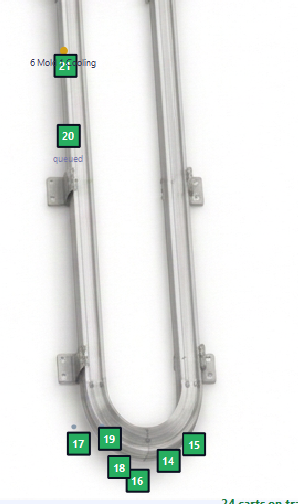
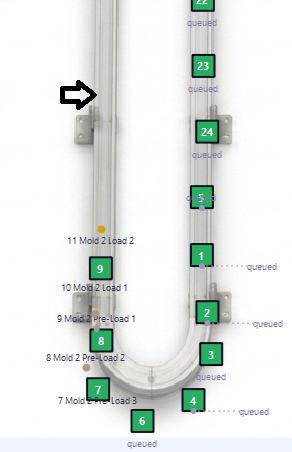
Fix real-vs-pixel-fraction mismatch at mold-spur U-turns (v27.3.9)
Fixing the waypoint-ordering bug wasn't the whole story: the U-turn is only
~8% of the real path length (from track_geometry's segment lengths) but
measured ~19-21% of the traced PIXEL arc-length -- the photographed curve's
visual footprint is much bigger than its real-distance share. A plain 1:1
real-fraction -> pixel-fraction mapping therefore placed anything past the
curve (e.g. a mold's Load 2 station) too far along/low, and made cart travel
through the bend look uneven -- reported as "the Mold 2 Load 2 label should
be higher" (with a drawn arrow marking the expected spot) and "Mold 1 side
does a weird route around the bottom bend".

Fixed with REAL_TO_PIXEL_BREAKPOINTS: a piecewise-linear remap anchored at
the real leg/curve transition points, applied in point_at() before the
arc-length lookup. Verified the flagged station moved ~44px in the arrow's
direction, and a full even-step walk around both spurs shows no clustering
-- now correctly denser through the legs and sparser through the turn,
matching that the real cart doesn't slow down for the bend.

diff --git a/tests/test_track_photo.py b/tests/test_track_photo.py
@@ -1,10 +1,12 @@
 """PhotoTrackModel — pixel-space calibration for the real track photo, and the
 TrackCanvas photo/schematic fallback selection."""
 from __future__ import annotations
+import math
 import pytest
 
 from mm_monitor.track_photo import (
     PhotoTrackModel, PATH_WAYPOINTS_PX, PHOTO_SIZE, build_photo_track_model,
+    REAL_TO_PIXEL_BREAKPOINTS, _remap_fraction, _cumulative_lengths,
 )
 
 
@@ -62,3 +64,93 @@ def test_build_photo_track_model_uses_real_path_lengths():
     p_start = model.point_at(6, 0.0)
     p_mid = model.point_at(6, 5.0)
     assert p_start != p_mid, "positions should differ across a 10m+ path"
+
+
+# ── mold-spur curve fraction correction (real_frac != pixel_frac near the U-turn) ──
+#
+# The pixel-traced U-turn on paths 2/4 occupies a much bigger SHARE of pixel
+# arc-length (~19-21%) than the same turn occupies of the path's real length
+# (~8%, from track_geometry's own segment lengths) — a straight real-fraction
+# to pixel-fraction mapping therefore placed anything past the turn (a mold's
+# Load 2 station, or a cart mid-transit) too far along/low, and made the ride
+# through the curve look uneven. REAL_TO_PIXEL_BREAKPOINTS + _remap_fraction
+# fix this; these tests guard against it regressing silently.
+
+def test_remap_fraction_matches_known_anchors_exactly():
+    bp = [(0.0, 0.0), (0.5, 0.3), (1.0, 1.0)]
+    assert _remap_fraction(0.0, bp) == 0.0
+    assert _remap_fraction(0.5, bp) == pytest.approx(0.3)
+    assert _remap_fraction(1.0, bp) == 1.0
+
+
+def test_remap_fraction_interpolates_linearly_between_anchors():
+    bp = [(0.0, 0.0), (0.5, 0.3), (1.0, 1.0)]
+    # halfway between the 0.5->0.3 and 1.0->1.0 anchors
+    assert _remap_fraction(0.75, bp) == pytest.approx(0.65)
+
+
+def test_remap_fraction_clamps_outside_anchor_range():
+    bp = [(0.2, 0.1), (0.8, 0.9)]
+    assert _remap_fraction(0.0, bp) == pytest.approx(0.1)
+    assert _remap_fraction(1.0, bp) == pytest.approx(0.9)
+
+
+def test_paths_2_and_4_have_breakpoint_corrections():
+    assert 2 in REAL_TO_PIXEL_BREAKPOINTS
+    assert 4 in REAL_TO_PIXEL_BREAKPOINTS
+
+
+def test_paths_without_breakpoints_use_direct_fraction():
+    # Path 6 (Process) has no correction entry -> point_at should fall back to
+    # the plain real_frac == pixel_frac behavior (no remap applied).
+    assert REAL_TO_PIXEL_BREAKPOINTS.get(6) is None
+
+
+def test_station_past_the_curve_renders_higher_than_uncorrected_mapping():
+    """Regression guard for the exact bug reported: Mold 2's Load 2 station
+    (path 4 @ 3.405m, real fraction ~71%, past the U-turn) must render further
+    up the return leg (smaller pixel y) than a naive direct real-fraction ->
+    pixel-fraction mapping would have placed it."""
+    model = PhotoTrackModel(real_lengths={4: 4.7854})
+    corrected = model.point_at(4, 3.405)
+
+    pts = PATH_WAYPOINTS_PX[4]
+    s = _cumulative_lengths(pts)
+    frac = 3.405 / 4.7854
+    target = frac * s[-1]
+    lo, hi = 0, len(s) - 1
+    while lo < hi - 1:
+        mid = (lo + hi) // 2
+        if s[mid] <= target:
+            lo = mid
+        else:
+            hi = mid
+    seg = s[hi] - s[lo]
+    t = 0.0 if seg <= 0 else (target - s[lo]) / seg
+    a, b = pts[lo], pts[hi]
+    uncorrected = (a[0] + (b[0] - a[0]) * t, a[1] + (b[1] - a[1]) * t)
+
+    assert corrected[1] < uncorrected[1] - 20, (
+        "corrected position should be meaningfully higher (smaller y) than "
+        "the naive direct-fraction mapping")
+
+
+def test_curve_region_markers_stay_evenly_spaced_no_clustering():
+    """Walking a simulated cart around a full mold-spur path in even real-meter
+    steps must never produce two consecutive samples landing on nearly the
+    same pixel point (the original clustering-at-the-bend bug) or jumping
+    backward in arc-length order."""
+    model = build_photo_track_model()
+    from mm_monitor.track_geometry import build_track
+    real_len = build_track().paths[2].length
+
+    step = 0.1
+    prev = None
+    n = int(real_len / step)
+    for i in range(n + 1):
+        pt = model.point_at(2, i * step)
+        assert pt is not None
+        if prev is not None:
+            dist = math.hypot(pt[0] - prev[0], pt[1] - prev[1])
+            assert dist > 0.5, f"step {i}: consecutive samples nearly identical (clustering)"
+        prev = pt

diff --git a/mm_monitor/track_photo.py b/mm_monitor/track_photo.py
@@ -122,6 +122,46 @@ def _cumulative_lengths(pts: list[tuple[float, float]]) -> list[float]:
     return s
 
 
+# Mold spurs (paths 2 & 4): the real path is leg → U-turn → leg, and the
+# U-turn is a genuinely SHORT slice of the real length (the two 90° curves
+# that make up the 180° turn are only ~8% of the path — see
+# track_geometry.build_track()'s segment lengths). But the PHOTOGRAPHED curve's
+# pixel-arc-length share is much larger (measured ~19-21%), because the real
+# curve is a tight radius while the physical rail's visible turn spans a much
+# wider arc in the photo. Mapping "real fraction" straight onto "pixel
+# fraction" 1:1 therefore put anything past the turn (e.g. a mold's Load 2
+# station, or a cart mid-transit) noticeably further along the pixel path than
+# it should be — reported as "the label should be higher up" and "carts take
+# a weird route around the bend".
+#
+# Fix: a piecewise-linear correction, anchored at the two leg/curve transition
+# points on both sides — (real_fraction, pixel_fraction) pairs measured directly
+# from these paths' own waypoint lists and track_geometry's real segment
+# lengths. Between anchors, a real fraction is linearly remapped to the pixel
+# fraction it should ACTUALLY correspond to, before the normal arc-length
+# lookup runs. Paths without an entry here (1, 3, 5, 6) use real_frac ==
+# pixel_frac directly — their curves are a small enough share of the total
+# length that this mismatch isn't meaningfully visible.
+REAL_TO_PIXEL_BREAKPOINTS: dict[int, list[tuple[float, float]]] = {
+    2: [(0.0, 0.0), (0.465, 0.394), (0.546, 0.585), (1.0, 1.0)],
+    4: [(0.0, 0.0), (0.459, 0.395), (0.541, 0.606), (1.0, 1.0)],
+}
+
+
+def _remap_fraction(frac: float, breakpoints: list[tuple[float, float]]) -> float:
+    """Piecewise-linear remap of a real-position fraction to the pixel-arc-length
+    fraction it should correspond to, given known (real, pixel) anchor points."""
+    if frac <= breakpoints[0][0]:
+        return breakpoints[0][1]
+    if frac >= breakpoints[-1][0]:
+        return breakpoints[-1][1]
+    for (r0, p0), (r1, p1) in zip(breakpoints, breakpoints[1:]):
+        if r0 <= frac <= r1:
+            t = 0.0 if r1 <= r0 else (frac - r0) / (r1 - r0)
+            return p0 + (p1 - p0) * t
+    return frac   # unreachable given the bounds checks above
+
+
 class PhotoTrackModel:
     """Same query shape as track_geometry.TrackModel (point_at(path, pos_m)) but
     returns photo-native pixel coordinates instead of schematic meter-coordinates,
@@ -145,6 +185,9 @@ class PhotoTrackModel:
             return None
         real_len = self._real_lengths.get(path_id, 0.0)
         frac = 0.0 if real_len <= 0 else max(0.0, min(1.0, pos_m / real_len))
+        breakpoints = REAL_TO_PIXEL_BREAKPOINTS.get(path_id)
+        if breakpoints:
+            frac = _remap_fraction(frac, breakpoints)
         target = frac * s[-1]
 
         lo, hi = 0, len(s) - 1

diff --git a/mm_monitor/version.py b/mm_monitor/version.py
@@ -1,3 +1,3 @@
 """Auto-generated by release.py - do not edit by hand."""
-VERSION = "27.3.8"
-BUILD_DATE = "2026-07-01 03:07"
+VERSION = "27.3.9"
+BUILD_DATE = "2026-07-01 03:59"

diff --git a/PROJECT_MEMORY.md b/PROJECT_MEMORY.md
@@ -2,7 +2,7 @@
 
 > Living document to bring people and LLMs up to speed on what this app is, how it
 > works, the real-system facts it depends on, and the non-obvious fixes made.
-> Last updated for **v27.3.8** (WEEK.DAY.BUILD — see Build section).
+> Last updated for **v27.3.9** (WEEK.DAY.BUILD — see Build section).
 
 ## What it is
 A standalone Windows desktop app (Python + PySide6) that monitors a **Rockwell/MagneMotion
@@ -223,6 +223,25 @@ legs, ≤40px = one tube's own edges — legs are ~80-90px apart, a single tube 
 Verified by walking a simulated cart around the full spur in even steps and confirming even
 pixel spacing throughout, including the curve (no more clustering).
 
+**Curve real-fraction vs. pixel-fraction mismatch (fixed, `REAL_TO_PIXEL_BREAKPOINTS`)**: fixing
+the ordering bug above wasn't the whole story. The mold-spur U-turn is only ~8% of the path's
+REAL length (from `track_geometry`'s own segment lengths — the 180° turn is two tight 90° curves
+totaling ~0.4m out of ~4.8m), but the traced U-turn's PIXEL arc-length share measured ~19-21% —
+the photographed curve's visual footprint is much bigger than its real-distance share. A plain
+1:1 real-fraction→pixel-fraction mapping therefore always placed anything PAST the curve (a
+mold's Load 2 station, or a cart mid-transit) too far along/low, and made travel through the
+curve look uneven ("weird route around the bend"). Fixed with `REAL_TO_PIXEL_BREAKPOINTS` in
+`track_photo.py`: a piecewise-linear remap anchored at the measured (real_fraction,
+pixel_fraction) pair at each leg/curve transition on paths 2 & 4, applied in `point_at()` before
+the normal arc-length lookup. After the fix, real distance and pixel distance correctly diverge
+*by design* — the curve (small real distance, big pixel footprint) is traversed with wider pixel
+jumps per real-meter than the straight legs, which is physically correct (the cart doesn't slow
+down for the turn). Verified: Mold 2's Load 2 station moved ~44px further up the return leg
+(matching a user-drawn arrow at its expected real position); an even-step walk around the whole
+spur still shows no clustering, now correctly denser through the legs and sparser through the
+turn. Paths 1/3/5/6 have no entry in `REAL_TO_PIXEL_BREAKPOINTS` (real_frac == pixel_frac) — their
+curves are too small a share of total length for this to be visibly worth correcting.
+
 **Station positions corrected from the real HMI** (`STATION_LOCATIONS` in `system_data.py`):
 the "Magnemotion Position Edits" screen (a live position-edit HMI on the actual machine) gives
 the real, currently-deployed Act. (actual) position of every named point — this supersedes the
@@ -312,6 +331,13 @@ Hard C++/Qt crashes show NO Python popup (just the app closing). Causes found & 
   If a silent crash recurs, that file is the evidence to grab.
 
 ## Fix history (most recent first)
+- **Fixed real-vs-pixel-fraction mismatch at the mold-spur U-turns** — the curve is only ~8% of
+  the real path length but ~19-21% of the traced pixel arc-length, so anything past the curve
+  (e.g. a Load 2 station) rendered too far along/low, and cart travel through the bend looked
+  uneven. Fixed with a piecewise-linear `REAL_TO_PIXEL_BREAKPOINTS` remap anchored at the real
+  leg/curve transition points. Verified against a user-drawn arrow marking the expected position
+  (station moved ~44px, matching direction) and a full even-step walk around both spurs. Test
+  suite 130 (+7).
 - **Fixed cart clustering at mold-spur bottom curves + corrected station positions from the
   real HMI** — root-caused a waypoint-ordering bug (the trace misclassified the ONE curving
   tube's inner/outer edge as "2 separate legs" near the bottom, causing several different real
